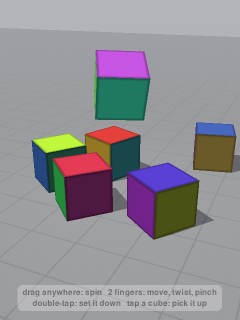
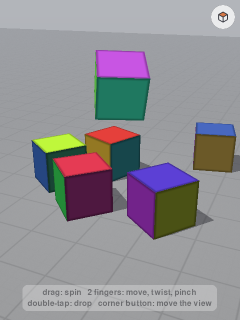
Cubes: corner button switches between moving the cube and the view
View mode: 1 finger orbits, 2 fingers pan, pinch zooms, twist turns;
the cube stays put. A short label names the new mode.

Claude-Session: https://claude.ai/code/session_019W3NN6e8pqGgFDupQo4YNY

Changed region(s): [[0.0583, 0.875, 0.9333, 0.9688], [0.875, 0.0, 0.9917, 0.0938]]

diff --git a/scenes/cubes/scene.py b/scenes/cubes/scene.py
@@ -229,6 +229,9 @@ class Scene(BaseScene):
         self.last_tap = (-9.0, 0.0, 0.0)
         self.held = None                        # kept for drawing (glow)
         self.font = pygame.font.Font(None, 24)
+        self.target = TARGET.copy()             # what the camera looks at
+        self.mode = "cube"                      # "cube": gestures steer the cube; "view": the camera
+        self.mode_t = -9.0                      # when the mode last changed (for the label)
         self._camera()
         self._present()
 
@@ -268,8 +271,8 @@ class Scene(BaseScene):
     # ------------------------------------------------------------- camera
     def _camera(self):
         cp = math.cos(self.pitch)
-        self.eye = TARGET + self.dist * np.array([cp * math.sin(self.yaw), math.sin(self.pitch), cp * math.cos(self.yaw)])
-        self.view = look_at(self.eye, TARGET)
+        self.eye = self.target + self.dist * np.array([cp * math.sin(self.yaw), math.sin(self.pitch), cp * math.cos(self.yaw)])
+        self.view = look_at(self.eye, self.target)
         self.proj = perspective(FOV, self.w / self.h, 0.3, 80.0)
         self.viewproj = self.proj @ self.view
         self.inv_vp = np.linalg.inv(self.viewproj)
@@ -312,7 +315,8 @@ class Scene(BaseScene):
         if ids != prev_ids:
             if not prev_ids and ids:                         # a touch starts
                 x, y = next(iter(fingers.values()))
-                self.gesture = {"t0": self.t, "start": (x, y), "moved": 0.0, "max_n": len(ids)}
+                self.gesture = {"t0": self.t, "start": (x, y), "moved": 0.0, "max_n": len(ids),
+                                "button": self._on_button(x, y)}
             elif prev_ids and not ids:                       # all fingers lifted
                 self._end_gesture()
             if self.gesture:
@@ -328,7 +332,10 @@ class Scene(BaseScene):
         dc = cur.mean(0) - old.mean(0)
         if self.gesture:
             self.gesture["moved"] += math.hypot(*dc)
-        c = self.active
+            if self.gesture["button"]:                       # touches on the button don't steer
+                self.prev = dict(fingers)
+                return
+        c = self.active if self.mode == "cube" else None
         if c is not None:
             self.touched = True
             if n == 2:
@@ -352,14 +359,25 @@ class Scene(BaseScene):
                 if ang > 0:
                     c.R = axis_angle(self.up * dc[0] + self.right * dc[1], ang) @ c.R
             c.R = reorthonormalize(c.R)
-        else:                                                # no active cube: move the camera
-            if n == 1:
+        else:                                                # view mode (or no cube): the camera
+            if n == 1:                                       # orbit
                 self.yaw -= dc[0] * 0.008
                 self.pitch = min(1.35, max(0.08, self.pitch + dc[1] * 0.006))
-            else:
+            else:                                            # pinch: zoom; slide: pan; twist: turn
                 d0, d1 = np.linalg.norm(old[1] - old[0]), np.linalg.norm(cur[1] - cur[0])
                 if d0 > 10:
-                    self.dist = min(18, max(4, self.dist * d0 / d1))
+                    self.dist = min(18, max(3, self.dist * d0 / d1))
+                a0 = math.atan2(old[1, 1] - old[0, 1], old[1, 0] - old[0, 0])
+                a1 = math.atan2(cur[1, 1] - cur[0, 1], cur[1, 0] - cur[0, 0])
+                self.yaw -= (a1 - a0 + math.pi) % (2 * math.pi) - math.pi
+                scale = 2 * self.dist * math.tan(math.radians(FOV) / 2) / self.h
+                flat_r = np.array([self.right[0], 0, self.right[2]])
+                flat_f = np.array([self.fwd[0], 0, self.fwd[2]])
+                flat_r /= np.linalg.norm(flat_r) + 1e-9
+                flat_f /= np.linalg.norm(flat_f) + 1e-9
+                self.target += (-flat_r * dc[0] + flat_f * dc[1]) * scale
+                for k in (0, 2):
+                    self.target[k] = max(-6.0, min(6.0, self.target[k]))
             self._camera()
         self.prev = dict(fingers)
 
@@ -368,6 +386,10 @@ class Scene(BaseScene):
         if g is None:
             return
         quick = self.t - g["t0"] < 0.3 and g["moved"] < 14
+        if g["button"]:
+            if self.t - g["t0"] < 0.6 and g["moved"] < 30:   # tap the corner button: switch mode
+                self._set_mode("view" if self.mode == "cube" else "cube")
+            return
         if quick and g["max_n"] == 1:                        # a tap
             x, y = g["start"]
             t, lx, ly = self.last_tap
@@ -380,10 +402,61 @@ class Scene(BaseScene):
             if c is not None and c is not self.active and c.state in ("sleep", "free"):
                 self._drop()                                 # tap a cube on the floor: pick it up
                 self._present(c)
+                self._set_mode("cube")
             return
-        if self.active is not None and g["max_n"] >= 2:      # a quick flick throws it
+        if self.active is not None and self.mode == "cube" and g["max_n"] >= 2:      # a quick flick throws it
             if np.linalg.norm(self.hold_v) > 3.0:
                 self._drop(self.hold_v * self.p.throw, self.hold_w * self.p.throw)
+
+    # ------------------------------------------------------------- mode button
+    def _button(self):
+        return self.w - 34, 34, 24
+
+    def _on_button(self, x, y):
+        bx, by, r = self._button()
+        return math.hypot(x - bx, y - by) < r + 18      # a generous target for a fingertip
+
+    def _set_mode(self, mode):
+        if mode != self.mode:
+            self.mode, self.mode_t = mode, self.t
+
+    def _icon(self, gl, mode):
+        """A small round chip: a cube (manipulate) or orbit arrows around an eye (navigate)."""
+        key = "cubes_icon_" + mode
+        cache = self.__dict__.setdefault("_icons", {})
+        if key in cache:
+            return cache[key]
+        S = 4                                            # draw big, then shrink: smooth edges
+        r = self._button()[2]
+        D = 2 * r * S
+        big = pygame.Surface((D, D), pygame.SRCALPHA)
+        c = D // 2
+        pygame.draw.circle(big, (255, 255, 255, 190), (c, c), c)
+        ink = (52, 54, 62, 255)
+        lw = 2 * S
+        if mode == "cube":                               # isometric wireframe cube
+            k = 0.42 * c
+            top = (c, c - k); bot = (c, c + k)
+            ul = (c - 0.87 * k, c - 0.5 * k); ur = (c + 0.87 * k, c - 0.5 * k)
+            ll = (c - 0.87 * k, c + 0.5 * k); lr = (c + 0.87 * k, c + 0.5 * k)
+            pygame.draw.polygon(big, (214, 120, 70, 255), [(c, c), ur, top, ul])
+            pygame.draw.lines(big, ink, True, [top, ur, lr, bot, ll, ul], lw)
+            for q in (ul, ur, bot):
+                pygame.draw.line(big, ink, (c, c), q, lw)
+        else:                                            # eye inside an orbit ring with arrowheads
+            rect = pygame.Rect(0, 0, 1.3 * c, 0.62 * c)
+            rect.center = (c, c)
+            pygame.draw.ellipse(big, ink, rect, lw)
+            pygame.draw.circle(big, (70, 120, 200, 255), (c, c), int(0.17 * c))
+            for sgn in (-1, 1):
+                ax = c + sgn * 0.65 * c
+                ay = c + sgn * 0.02 * c
+                tip = (ax, ay + sgn * 0.22 * c)
+                pygame.draw.polygon(big, ink, [tip, (ax - 0.16 * c, ay - sgn * 0.02 * c),
+                                               (ax + 0.16 * c, ay - sgn * 0.02 * c)])
+        small = pygame.transform.smoothscale(big, (2 * r, 2 * r))
+        cache[key] = gl.surface_texture(small, key)
+        return cache[key]
 
     # ------------------------------------------------------------- physics
     def update(self, dt):
@@ -597,10 +670,26 @@ class Scene(BaseScene):
         gl.cull(False)
         gl.depth(False)
 
+        view = self.mode == "view" or self.active is None
+        bx, by, r = self._button()
+        gl.blit_at(self._icon(gl, "view" if view else "cube"), bx - r, by - r,
+                   alpha=0.75 if self.mode == "cube" and self.active is None else 1.0)
+        if self.t - self.mode_t < 1.4:                       # name the new mode briefly
+            key = "cubes_label_" + self.mode
+            cache = self.__dict__.setdefault("_icons", {})
+            if key not in cache:
+                im = self.font.render("move cube" if self.mode == "cube" else "move view", True, (40, 40, 46))
+                lab = pygame.Surface((im.get_width() + 16, 26), pygame.SRCALPHA)
+                pygame.draw.rect(lab, (255, 255, 255, 180), lab.get_rect(), border_radius=8)
+                lab.blit(im, im.get_rect(center=(lab.get_width() // 2, 13)))
+                cache[key] = gl.surface_texture(lab, key)
+            tex = cache[key]
+            gl.blit_at(tex, bx - r - 8 - tex.w, by - 13, alpha=min(1.0, (1.4 - (self.t - self.mode_t)) * 3))
+
         if self.t < 9 and not self.prev:                     # a hint for the first few seconds
             if not hasattr(self, "_hint"):
-                lines = ["drag anywhere: spin   2 fingers: move, twist, pinch",
-                         "double-tap: set it down   tap a cube: pick it up"]
+                lines = ["drag: spin   2 fingers: move, twist, pinch",
+                         "double-tap: drop   corner button: move the view"]
                 imgs = [self.font.render(s, True, (40, 40, 46)) for s in lines]
                 hint = pygame.Surface((max(i.get_width() for i in imgs) + 20, 52), pygame.SRCALPHA)
                 pygame.draw.rect(hint, (255, 255, 255, 170), hint.get_rect(), border_radius=10)

diff --git a/scenes/cubes/README.md b/scenes/cubes/README.md
@@ -21,7 +21,9 @@ The screen is smaller than two fingertips, so you never touch the cube itself. G
 | **Double-tap** | Set it down: it falls with gravity, tumbles and settles |
 | **Quick 2-finger flick** | Throw it |
 | **Tap a cube on the floor** | Pick it back up (anything resting on it falls) |
-| **Drag / pinch with no active cube** | Orbit / zoom the camera (while the last cube lands) |
+| **Tap the corner button** (top right) | Switch between moving the **cube** (cube icon) and moving the **view** (eye icon) |
+
+In **view** mode the cube stays put: 1 finger orbits the camera, 2 fingers slide to pan, pinch to zoom and twist to turn. While no cube is active (the last one is landing) gestures always move the view. Tapping a cube on the floor switches back to cube mode.
 
 When a dropped cube settles, the next one is presented. The active cube glows slightly.
 
